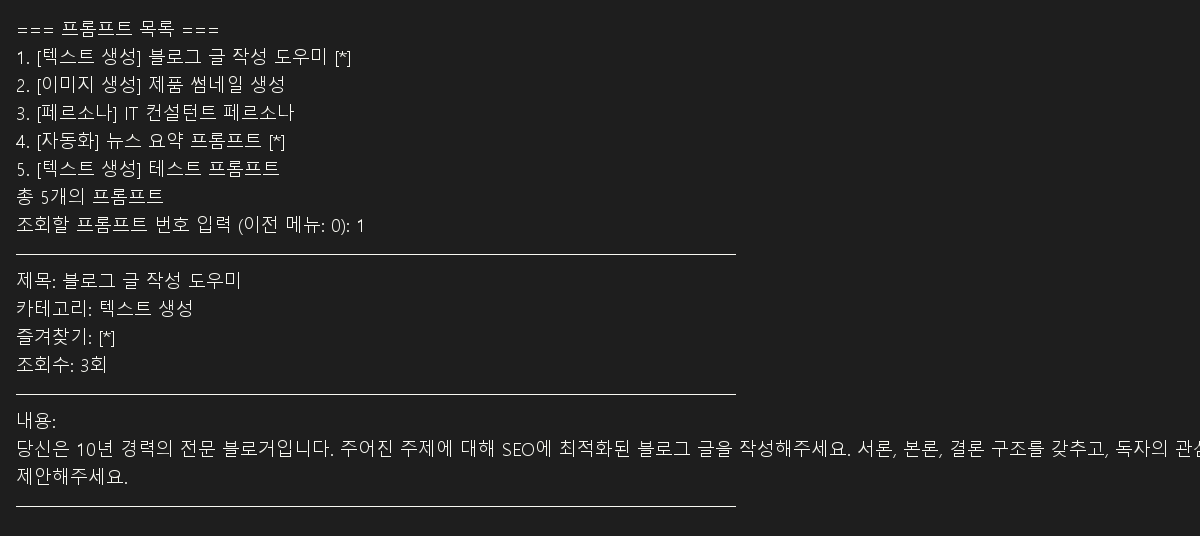
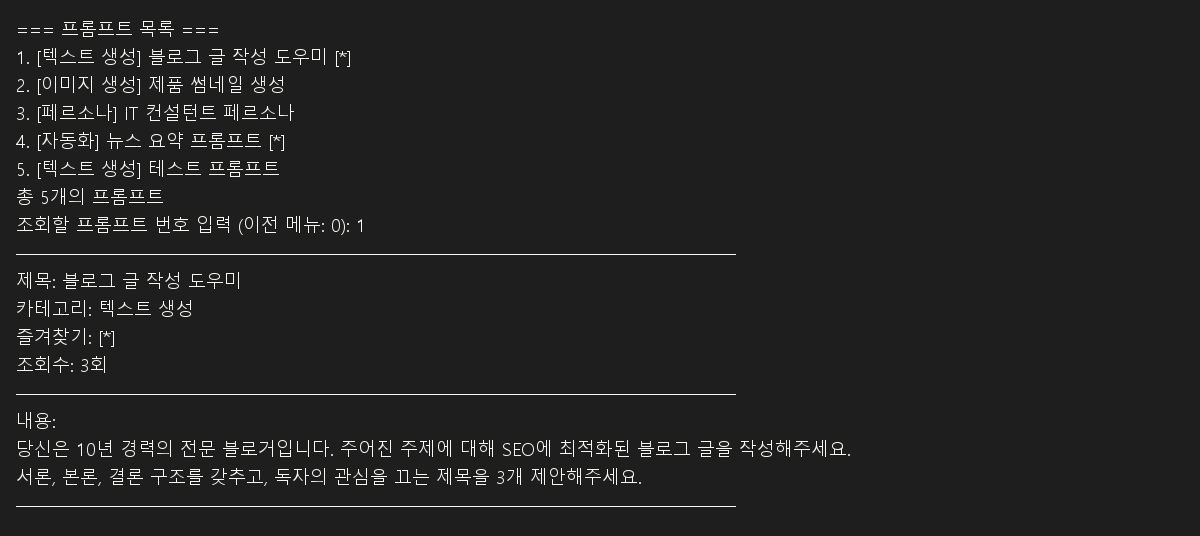
docs: 한글 텍스트 우측 잘림 방지를 위해 줄바꿈 글자수 축소 및 이미지 재생성

diff --git a/03_etc/generate_images.py b/03_etc/generate_images.py
@@ -25,7 +25,7 @@ for fp in font_paths:
 if font is None:
     font = ImageFont.load_default()
 
-LINE_WIDTH = 100
+LINE_WIDTH = 60
 IMAGE_WIDTH = 1200
 PADDING = 16
 